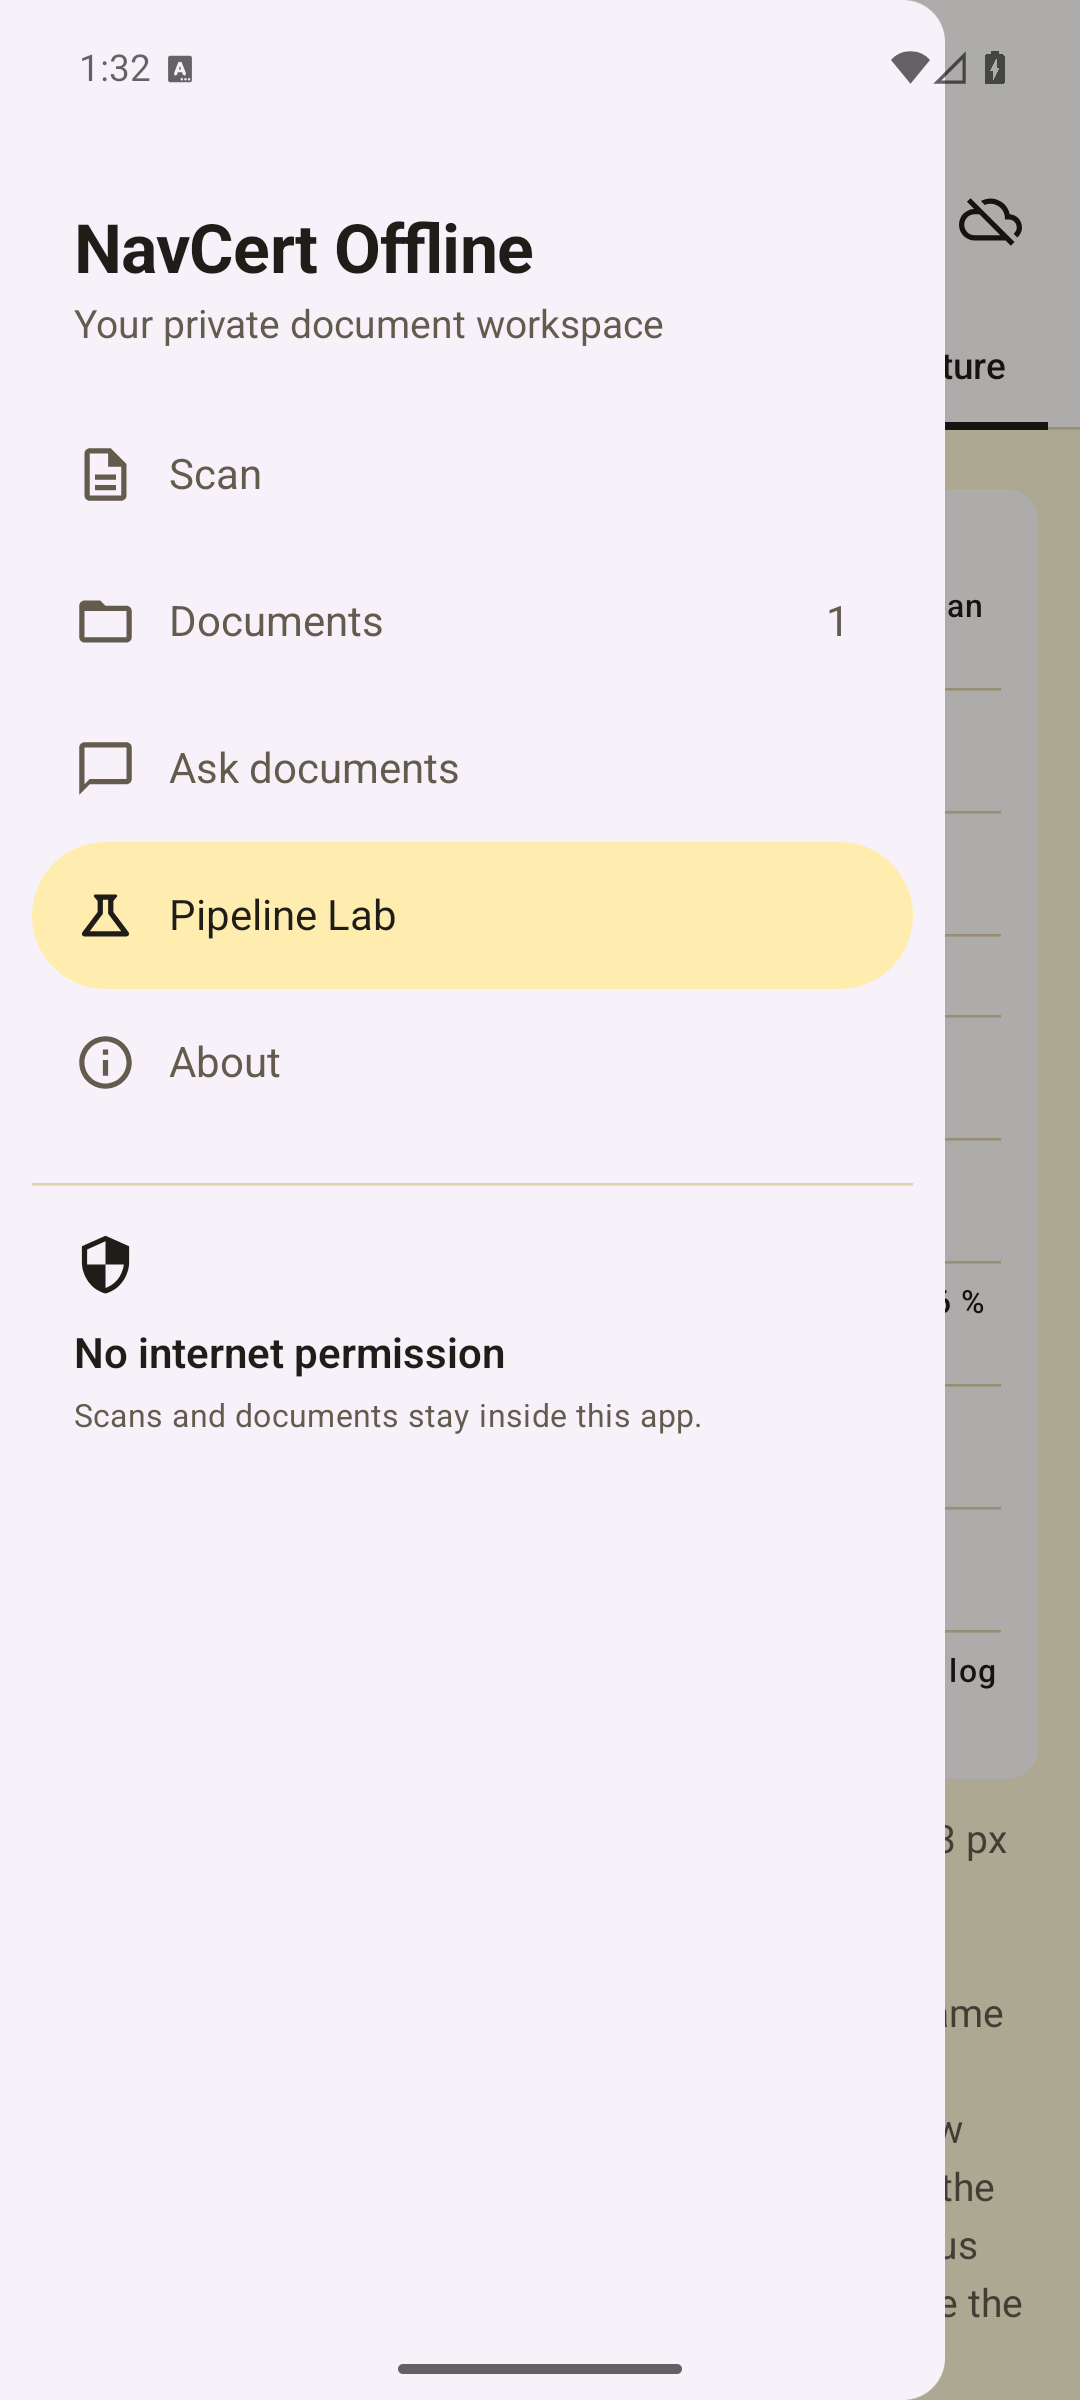
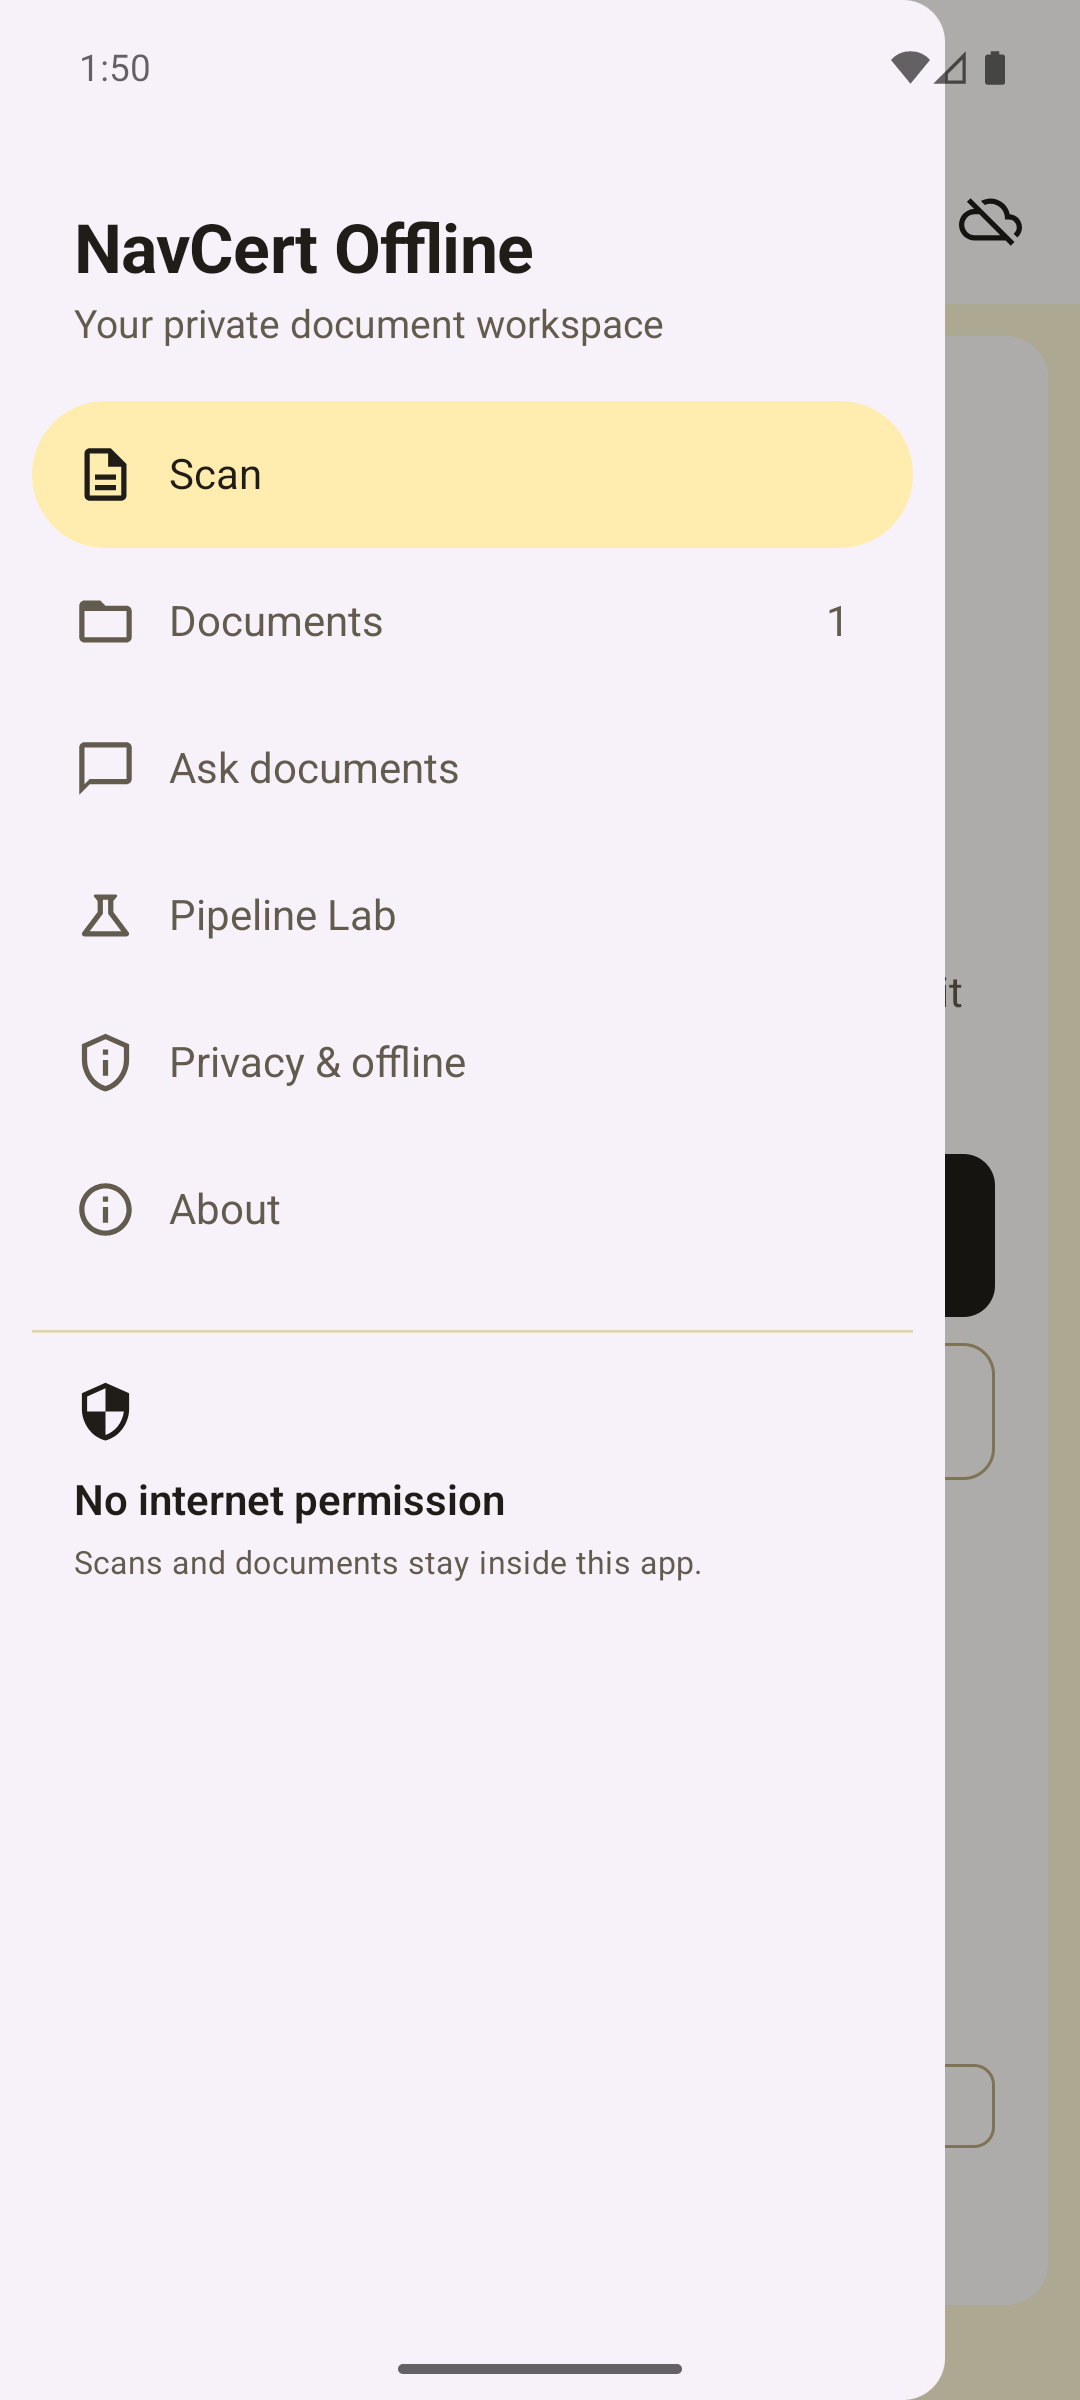
Add Privacy & offline screen to the side menu and a privacy policy

diff --git a/app/src/main/java/com/MAD/n152/AppScreens.kt b/app/src/main/java/com/MAD/n152/AppScreens.kt
@@ -41,7 +41,10 @@ import androidx.compose.material.icons.outlined.DeleteOutline
 import androidx.compose.material.icons.outlined.Description
 import androidx.compose.material.icons.outlined.FolderOpen
 import androidx.compose.material.icons.outlined.Image
+import androidx.compose.material.icons.outlined.DeleteForever
 import androidx.compose.material.icons.outlined.Lock
+import androidx.compose.material.icons.outlined.Memory
+import androidx.compose.material.icons.outlined.PhonelinkLock
 import androidx.compose.material.icons.outlined.Save
 import androidx.compose.material.icons.outlined.Search
 import androidx.compose.material.icons.outlined.Share
@@ -779,7 +782,7 @@ fun AboutScreen() {
     ) {
         Text("Private by design", style = MaterialTheme.typography.headlineSmall)
         Text(
-            "N152 turns photos into editable documents without an account, server, or network permission.",
+            "NavCert Offline turns photos into editable documents without an account, server, or network permission.",
             modifier = Modifier.padding(top = 8.dp, bottom = 24.dp),
             style = MaterialTheme.typography.bodyMedium,
             color = MaterialTheme.colorScheme.onSurfaceVariant
@@ -807,6 +810,54 @@ fun AboutScreen() {
             icon = { Icon(Icons.Outlined.AutoFixHigh, contentDescription = null) },
             title = "Automatic cleanup",
             description = "OpenCV aligns pages and improves contrast before recognition."
+        )
+    }
+}
+
+@Composable
+fun PrivacyScreen() {
+    Column(
+        modifier = Modifier
+            .fillMaxSize()
+            .verticalScroll(rememberScrollState())
+            .padding(12.dp)
+            .background(MaterialTheme.colorScheme.surface, RoundedCornerShape(16.dp))
+            .padding(horizontal = 20.dp, vertical = 18.dp)
+    ) {
+        Text("Privacy & offline", style = MaterialTheme.typography.headlineSmall)
+        Text(
+            "NavCert Offline collects no data. It has no account, no server, no analytics and no ads.",
+            modifier = Modifier.padding(top = 8.dp, bottom = 24.dp),
+            style = MaterialTheme.typography.bodyMedium,
+            color = MaterialTheme.colorScheme.onSurfaceVariant
+        )
+
+        AboutRow(
+            icon = { Icon(Icons.Outlined.CloudOff, contentDescription = null) },
+            title = "No internet permission",
+            description = "The INTERNET and network-state permissions are removed from the app manifest, " +
+                "so Android blocks every network connection from this app."
+        )
+        HorizontalDivider()
+        AboutRow(
+            icon = { Icon(Icons.Outlined.Memory, contentDescription = null) },
+            title = "All processing on this device",
+            description = "Page detection (OpenCV), text recognition (ML Kit, PP-OCRv5), field extraction " +
+                "(MiniLM, MobileBERT) and answers run on the phone with models bundled in the app."
+        )
+        HorizontalDivider()
+        AboutRow(
+            icon = { Icon(Icons.Outlined.PhonelinkLock, contentDescription = null) },
+            title = "App-private storage",
+            description = "Saved documents and previews live in the app's private folder. Other apps cannot " +
+                "read them, and they are excluded from cloud backup and device transfer."
+        )
+        HorizontalDivider()
+        AboutRow(
+            icon = { Icon(Icons.Outlined.DeleteForever, contentDescription = null) },
+            title = "You stay in control",
+            description = "Delete any document from the Documents screen. Uninstalling the app or clearing " +
+                "its storage removes everything. Text leaves the app only when you tap Share or Copy."
         )
     }
 }

diff --git a/app/src/main/java/com/MAD/n152/MainActivity.kt b/app/src/main/java/com/MAD/n152/MainActivity.kt
@@ -30,6 +30,7 @@ import androidx.compose.material.icons.outlined.Description
 import androidx.compose.material.icons.outlined.FolderOpen
 import androidx.compose.material.icons.outlined.Info
 import androidx.compose.material.icons.outlined.Menu
+import androidx.compose.material.icons.outlined.PrivacyTip
 import androidx.compose.material.icons.outlined.Science
 import androidx.compose.material.icons.outlined.Security
 import androidx.compose.material3.DrawerValue
@@ -89,6 +90,7 @@ enum class AppDestination(val label: String) {
     DOCUMENTS("Documents"),
     ASSISTANT("Ask"),
     LAB("Pipeline Lab"),
+    PRIVACY("Privacy & offline"),
     ABOUT("About")
 }
 
@@ -469,6 +471,7 @@ fun OcrApp() {
                                     AppDestination.DOCUMENTS -> "Stored on this phone"
                                     AppDestination.ASSISTANT -> "Answers from your saved documents"
                                     AppDestination.LAB -> "Image processing, stage by stage"
+                                    AppDestination.PRIVACY -> "What stays on this phone"
                                     AppDestination.ABOUT -> "Private by design"
                                 },
                                 style = MaterialTheme.typography.labelMedium,
@@ -635,6 +638,8 @@ fun OcrApp() {
 
                     AppDestination.LAB -> PipelineLabScreen(currentScan = sourceBitmap ?: previewBitmap)
 
+                    AppDestination.PRIVACY -> PrivacyScreen()
+
                     AppDestination.ABOUT -> AboutScreen()
                 }
             }
@@ -706,6 +711,12 @@ private fun DrawerContent(
             selected = selected == AppDestination.LAB,
             icon = { Icon(Icons.Outlined.Science, contentDescription = null) },
             onClick = { onNavigate(AppDestination.LAB) }
+        )
+        NavigationDrawerItem(
+            label = { Text("Privacy & offline") },
+            selected = selected == AppDestination.PRIVACY,
+            icon = { Icon(Icons.Outlined.PrivacyTip, contentDescription = null) },
+            onClick = { onNavigate(AppDestination.PRIVACY) }
         )
         NavigationDrawerItem(
             label = { Text("About") },

diff --git a/docs/PRIVACY.md b/docs/PRIVACY.md
@@ -1,0 +1,64 @@
+# Privacy policy: NavCert Offline
+
+Last updated: 12 October 2026
+Developer: Aadidev Raizada (N152), NMIMS MPSTME Mumbai
+
+NavCert Offline scans maritime certificates and other documents on your phone. It is built so that your documents never leave the device.
+
+## What the app collects
+
+Nothing. The app has no account, no server, no analytics, no advertising and no crash reporting. The developer receives no data from the app.
+
+## No network access
+
+The app's manifest removes the `INTERNET` and `ACCESS_NETWORK_STATE` permissions, including the ones requested by bundled libraries (`tools:node="remove"`). Without the `INTERNET` permission, Android blocks every network connection from the app.
+
+## All processing on the device
+
+Every step runs on the phone, with models bundled inside the app:
+
+- page detection, perspective correction and enhancement (OpenCV)
+- printed text recognition (ML Kit Text Recognition, bundled model)
+- handwriting recognition (PP-OCRv5 on ONNX Runtime)
+- certificate field extraction (rules, a fine-tuned MiniLM on ONNX Runtime, MobileBERT on TensorFlow Lite)
+- answers to questions about saved documents (local retrieval and MobileBERT)
+
+## Permissions
+
+| Permission | Used | Why |
+| --- | --- | --- |
+| Internet, network state | No (removed) | The app works offline by design. |
+| Camera | No | Photos are taken by the system camera app into a private, temporary file the app shares through a `FileProvider`. |
+| Storage, photos and media | No | Images are chosen with the system picker, which grants access to the selected image only. |
+| Location | No | Not needed. |
+
+## Where your documents are stored
+
+Saved documents (text, notes, highlights) and preview images are stored in the app's private storage (`files/documents/`). Other apps cannot read this folder. Camera captures and crops are kept in the app's cache.
+
+Backup is disabled (`android:allowBackup="false"`), and the backup and data-extraction rules exclude all app data from cloud backup and device-to-device transfer.
+
+## Sharing
+
+Text leaves the app only when you choose to share it (Share button, through the Android share sheet) or copy it to the clipboard. The app never sends anything on its own.
+
+## Deleting your data
+
+- Delete a single document from the Documents screen.
+- Clear all data from Android Settings > Apps > NavCert Offline > Storage > Clear storage.
+- Uninstalling the app removes all documents, previews and model files.
+
+## Children
+
+The app is not directed at children and collects no personal information from anyone.
+
+## Data safety summary (Google Play)
+
+- Data collected: none.
+- Data shared with third parties: none.
+- Data encrypted in transit: not applicable (no data is transmitted).
+- Users can request deletion: yes, all data is local and deletable in the app or through Android settings.
+
+## Contact
+
+Questions about this policy: open an issue at github.com/AadidevRaizada/navcert-offline.
